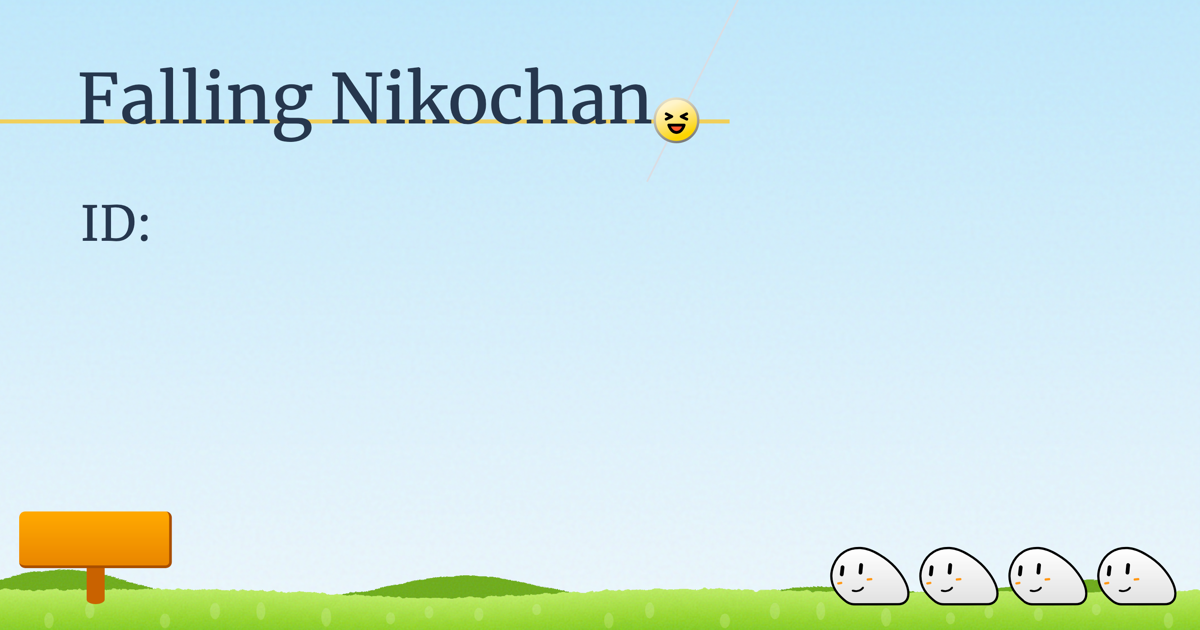
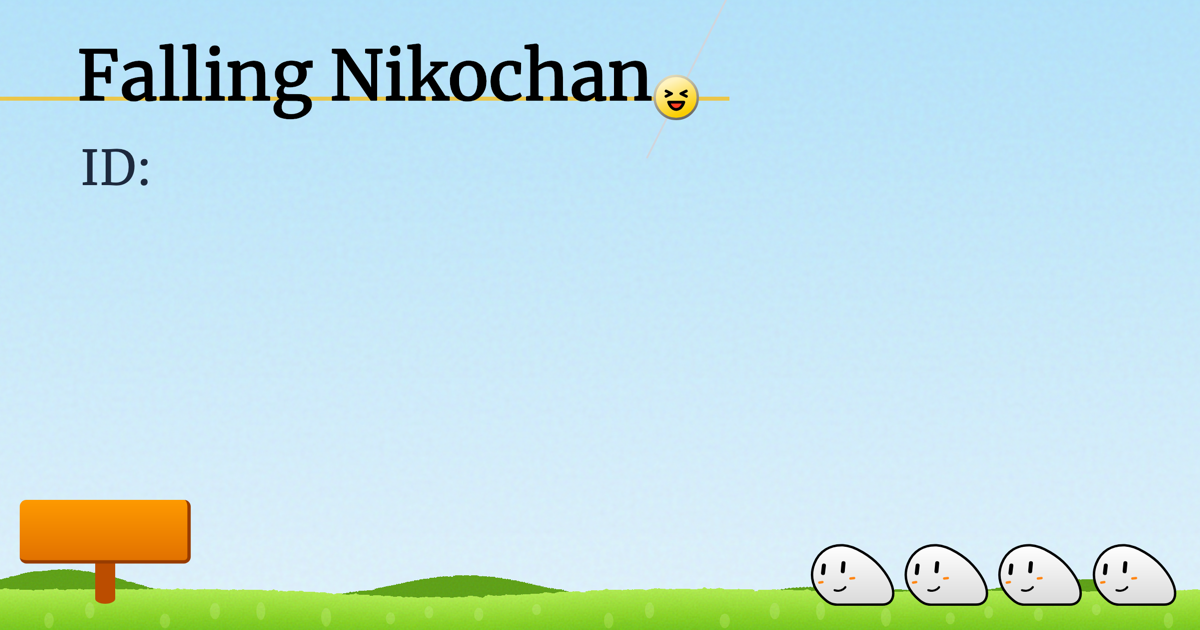
ogShareにレベルを追加
* ogのbriefパラメータを更新、v=16.29以前のurlはurlを設定し直し再リダイレクト
* ogShareにレベル表示を追加
* share,resultのbpmsignとslimeのサイズを変更
* ogShare,ogResultのレベル表示のフォントサイズを変更
* なんか文字の高さがあわないので目視ででっちあげ

diff --git a/route/src/og/ogShare.tsx b/route/src/og/ogShare.tsx
@@ -5,12 +5,14 @@ import {
   flexRow,
   fontMainUi,
   fontTitle,
+  levelColors,
   slate800,
   text4xl,
   text5xl,
   text7xl,
 } from "./style.js";
 import { ChartBriefMin } from "./app.js";
+import { levelTypes } from "@falling-nikochan/chart";
 
 export async function OGShare(
   cid: string,
@@ -64,7 +66,7 @@ export async function OGShare(
       <div
         style={{
           paddingLeft: (20 + 24) * 4,
-          marginTop: 50 * 4,
+          marginTop: 36 * 4,
           ...text5xl,
           fontFamily: fontMainUi,
         }}
@@ -73,8 +75,29 @@ export async function OGShare(
       </div>
       <div
         style={{
+          ...flexRow,
           paddingLeft: 20 * 4,
-          marginTop: 12 * 4,
+          marginTop: 6 * 4,
+          width: 2147483647,
+          ...text5xl,
+          fontFamily: fontTitle,
+        }}
+      >
+        <span
+          style={{
+            ...text4xl,
+            marginRight: 5 * 4,
+            fontFamily: fontMainUi,
+          }}
+        >
+          {t("chartCreator")}:
+        </span>
+        <span>{brief.chartCreator}</span>
+      </div>
+      <div
+        style={{
+          paddingLeft: 20 * 4,
+          marginTop: 10 * 4,
           width: 2147483647,
           // 困ったことにellipsisが効かない
           // width: "100%",
@@ -101,24 +124,65 @@ export async function OGShare(
       </div>
       <div
         style={{
+          paddingLeft: 50 * 4,
+          marginTop: 6 * 4,
           ...flexRow,
-          paddingLeft: 20 * 4,
-          marginTop: 4 * 4,
           width: 2147483647,
-          ...text5xl,
-          fontFamily: fontTitle,
         }}
       >
-        <span
-          style={{
-            ...text4xl,
-            marginRight: 5 * 4,
-            fontFamily: fontMainUi,
-          }}
-        >
-          {t("chartCreator")}:
-        </span>
-        <span>{brief.chartCreator}</span>
+        {brief.levels.map((l, i) => (
+          // <> </> だとなぜか高さがおかしくなる
+          <div
+            style={{
+              ...flexRow,
+              ...text5xl,
+            }}
+          >
+            {i >= 1 && (
+              <span
+                style={{
+                  marginLeft: 3 * 4,
+                  marginRight: 3 * 4,
+                  ...text4xl,
+                  fontFamily: fontTitle,
+                }}
+              >
+                /
+              </span>
+            )}
+            {l.name && (
+              <span
+                style={{
+                  fontFamily: fontTitle,
+                  ...text5xl,
+                  marginRight: 4 * 4,
+                }}
+              >
+                {l.name}
+              </span>
+            )}
+            <span
+              style={{
+                fontFamily: fontMainUi,
+                fontSize: "0.9em",
+                lineHeight: text5xl.lineHeight,
+                color: levelColors[l.type],
+              }}
+            >
+              {levelTypes[l.type]}-
+            </span>
+            <span
+              style={{
+                fontFamily: fontMainUi,
+                fontSize: "1.2em",
+                lineHeight: text5xl.lineHeight / 1.2, // なぜかわからないけどこれで揃う
+                color: levelColors[l.type],
+              }}
+            >
+              {l.difficulty}
+            </span>
+          </div>
+        ))}
       </div>
     </div>
   );

diff --git a/frontend/app/[locale]/ogTemplate/share/clientPage.tsx b/frontend/app/[locale]/ogTemplate/share/clientPage.tsx
@@ -5,7 +5,7 @@ import Title from "@/common/titleLogo";
 import BPMSign from "@/play/bpmSign";
 import RhythmicalSlime from "@/play/rhythmicalSlime";
 import { useTranslations } from "next-intl";
-import { stepZero } from "@falling-nikochan/chart";
+import { levelTypes, stepZero } from "@falling-nikochan/chart";
 import { useEffect, useState } from "react";
 import {
   IrasutoyaLikeBgInner,
@@ -34,7 +34,7 @@ export default function OGTemplate() {
         className="absolute"
       />
       <Title
-        className="absolute top-0 left-0 h-25 scale-190 origin-top-left "
+        className="absolute top-0 left-0 h-22 scale-190 origin-top-left "
         anim={false}
       />
       <div
@@ -53,13 +53,27 @@ export default function OGTemplate() {
           Thumbnail Here
         </div>
       </div>
-      <div className="pl-20 mt-50 text-5xl ">
+      <div className="pl-20 mt-36 text-5xl ">
         <span className="inline-block w-24 ">ID:</span>
         <span className="inline-block ">{showDummyData && 444444}</span>
       </div>
       <div
         className={clsx(
-          "pl-20 mt-12 text-7xl font-title",
+          "pl-20 mt-6 font-title text-5xl",
+          "w-full whitespace-nowrap text-ellipsis overflow-x-clip overflow-y-visible",
+          showDummyData || "invisible"
+        )}
+      >
+        <span className="font-main-ui text-4xl mr-5 ">
+          {t("chartCreator")}:
+        </span>
+        <span>
+          chartCreator譜面制作chartCreator譜面制作chartCreator譜面制作chartCreator譜面制作
+        </span>
+      </div>
+      <div
+        className={clsx(
+          "pl-20 mt-10 text-7xl font-title",
           "w-full whitespace-nowrap text-ellipsis overflow-x-clip overflow-y-visible",
           showDummyData || "invisible"
         )}
@@ -77,16 +91,22 @@ export default function OGTemplate() {
       </div>
       <div
         className={clsx(
-          "pl-20 mt-4 font-title text-5xl",
+          "pl-50 mt-6 flex flex-row items-baseline",
           "w-full whitespace-nowrap text-ellipsis overflow-x-clip overflow-y-visible",
           showDummyData || "invisible"
         )}
       >
-        <span className="font-main-ui text-4xl mr-5 ">
-          {t("chartCreator")}:
+        <span className="font-title text-5xl mr-4">LevelName</span>
+        {/* todo: fn-level-typeクラスの実装時にサイズが変わったが、 ogResult.tsx のほうに反映していない */}
+        <span className={clsx("text-5xl", "fn-level-type", levelTypes[0])}>
+          <span>{levelTypes[0]}-</span>
+          <span>44</span>
         </span>
-        <span>
-          chartCreator譜面制作chartCreator譜面制作chartCreator譜面制作chartCreator譜面制作
+        <span className="mx-3 text-4xl">/</span>
+        <span className="font-title text-5xl mr-4">LevelName</span>
+        <span className={clsx("text-5xl", "fn-level-type", levelTypes[1])}>
+          <span>{levelTypes[1]}-</span>
+          <span>44</span>
         </span>
       </div>
       <div className="absolute bottom-0 w-full h-6">
@@ -100,7 +120,7 @@ export default function OGTemplate() {
           classNameNear="absolute"
         />
         <RhythmicalSlime
-          className="z-14 absolute scale-165 origin-bottom-right "
+          className="z-14 absolute scale-150 origin-bottom-right "
           style={{
             bottom: "100%",
             right: "1rem",

diff --git a/route/src/og/app.ts b/route/src/og/app.ts
@@ -30,7 +30,11 @@ export interface ChartBriefMin {
   title: string;
   composer: string;
   chartCreator: string;
-  lvType?: number; // 0, 1, 2
+  levels: {
+    name: string;
+    type: number; // 0, 1, 2
+    difficulty: number;
+  }[];
 }
 
 const ChartBriefMinArraySchema = v.tuple([
@@ -38,7 +42,13 @@ const ChartBriefMinArraySchema = v.tuple([
   v.string(), // title
   v.string(), // composer
   v.string(), // chartCreator,
-  v.undefinedable(v.picklist([0, 1, 2])), // lvType
+  v.array(
+    v.tuple([
+      v.string(),
+      v.picklist([0, 1, 2]), // lvType
+      v.number(),
+    ])
+  ),
 ]);
 
 const ogApp = (config: {
@@ -60,20 +70,32 @@ const ogApp = (config: {
     .get("/:type/:cid", async (c) => {
       const cid = c.req.param("cid");
 
+      const vMajor = Number(c.req.query("v")?.split(".")[0]);
+      const vMinor = Number(c.req.query("v")?.split(".")[1]);
+
       // /og/share/cid へのアクセスでは /og/share/cid?brief=表示する全情報&v=version へ301リダイレクトし、
       // /og/share/cid?brief=表示する全情報 で生成した画像を永久にキャッシュ
       // (vパラメータは /share でも追加されるけど)
-      if (!c.req.query("brief")) {
+      // ver16.30でbriefの仕様を変更したのでそれ以前は無視 (レベルの情報を追加)
+      if (
+        !c.req.query("brief") ||
+        !c.req.query("v") ||
+        vMajor < 16 ||
+        (vMajor === 16 && vMinor <= 29)
+      ) {
         const { brief } = await config.fetchBrief(env(c), cid);
-        const lvType = levelTypes.indexOf(
-          brief.levels.filter((l) => !l.unlisted).at(0)?.type || ""
-        );
         const sBrief = msgpack.encode([
           brief.ytId,
           brief.title,
           brief.composer,
           brief.chartCreator,
-          lvType >= 0 ? (lvType as 0 | 1 | 2) : undefined,
+          brief.levels
+            .filter((l) => !l.unlisted)
+            .map((l) => [
+              l.name,
+              levelTypes.indexOf(l.type) as 0 | 1 | 2,
+              l.difficulty,
+            ]),
         ] satisfies v.InferOutput<typeof ChartBriefMinArraySchema>);
         let sBriefBin = "";
         for (let i = 0; i < sBrief.length; i++) {
@@ -114,7 +136,11 @@ const ogApp = (config: {
         title: briefArr[1],
         composer: briefArr[2],
         chartCreator: briefArr[3],
-        lvType: briefArr[4],
+        levels: briefArr[4].map(([name, type, difficulty]) => ({
+          name,
+          type,
+          difficulty,
+        })),
       };
 
       const lang = c.req.query("lang") || "en"; // c.get("language");

diff --git a/route/src/og/ogResult.tsx b/route/src/og/ogResult.tsx
@@ -78,7 +78,7 @@ export async function OGResult(
         <div
           style={{
             paddingLeft: 20 * 4,
-            marginTop: 6 * 4,
+            marginTop: 7 * 4,
             width: 2147483647,
             ...flexRow,
           }}
@@ -110,7 +110,7 @@ export async function OGResult(
           style={{
             ...flexRow,
             paddingLeft: 20 * 4,
-            marginTop: 4 * 4,
+            marginTop: 5 * 4,
             width: 2147483647,
             ...text4xl,
             fontFamily: fontTitle,
@@ -130,8 +130,9 @@ export async function OGResult(
         <div
           style={{
             paddingLeft: 20 * 4,
-            marginTop: 2 * 4,
+            marginTop: 5 * 4,
             ...flexRow,
+            ...text4xl,
             width: 2147483647,
           }}
         >
@@ -145,7 +146,8 @@ export async function OGResult(
           <span
             style={{
               fontFamily: fontMainUi,
-              ...text4xl,
+              fontSize: "0.9em",
+              lineHeight: text4xl.lineHeight,
               color: levelColors[params.lvType],
             }}
           >
@@ -154,7 +156,8 @@ export async function OGResult(
           <span
             style={{
               fontFamily: fontMainUi,
-              ...text5xl,
+              fontSize: "1.2em",
+              lineHeight: text4xl.lineHeight / 1.2, // なぜかわからないけどこれで揃う
               color: levelColors[params.lvType],
             }}
           >

diff --git a/frontend/app/[locale]/ogTemplate/result/clientPage.tsx b/frontend/app/[locale]/ogTemplate/result/clientPage.tsx
@@ -89,12 +89,11 @@ export default function OGTemplate() {
         </div>
         <div
           className={clsx(
-            "ml-20 mt-2 flex flex-row items-baseline",
+            "ml-20 mt-4 flex flex-row items-baseline",
             showDummyData || "invisible"
           )}
         >
           <span className="font-title text-4xl mr-4">LevelName</span>
-          {/* todo: fn-level-typeクラスの実装時にサイズが変わったが、 ogResult.tsx のほうに反映していない */}
           <span className={clsx("text-4xl", "fn-level-type", levelTypes[0])}>
             <span>{levelTypes[0]}-</span>
             <span>44</span>
@@ -202,7 +201,7 @@ export default function OGTemplate() {
           classNameNear="absolute"
         />
         <RhythmicalSlime
-          className="z-14 absolute scale-165 origin-bottom-right "
+          className="z-14 absolute scale-150 origin-bottom-right "
           style={{
             bottom: "100%",
             right: "1rem",

diff --git a/frontend/app/[locale]/scale.tsx b/frontend/app/[locale]/scale.tsx
@@ -19,13 +19,17 @@ export function useDisplayMode(): DisplayMode {
   const [size, setSize] = useState([1, 1]);
   const [rem, setRem] = useState<number>(16);
   useEffect(() => {
-    function updateSize() {
-      setSize([window.innerWidth, window.innerHeight]);
-      setRem(parseFloat(getComputedStyle(document.documentElement).fontSize));
+    if (window.location.pathname.includes("ogTemplate")) {
+      setSize([1200, 630]);
+    } else {
+      function updateSize() {
+        setSize([window.innerWidth, window.innerHeight]);
+        setRem(parseFloat(getComputedStyle(document.documentElement).fontSize));
+      }
+      window.addEventListener("resize", updateSize);
+      updateSize();
+      return () => window.removeEventListener("resize", updateSize);
     }
-    window.addEventListener("resize", updateSize);
-    updateSize();
-    return () => window.removeEventListener("resize", updateSize);
   }, []);
 
   const [width, height] = size;
